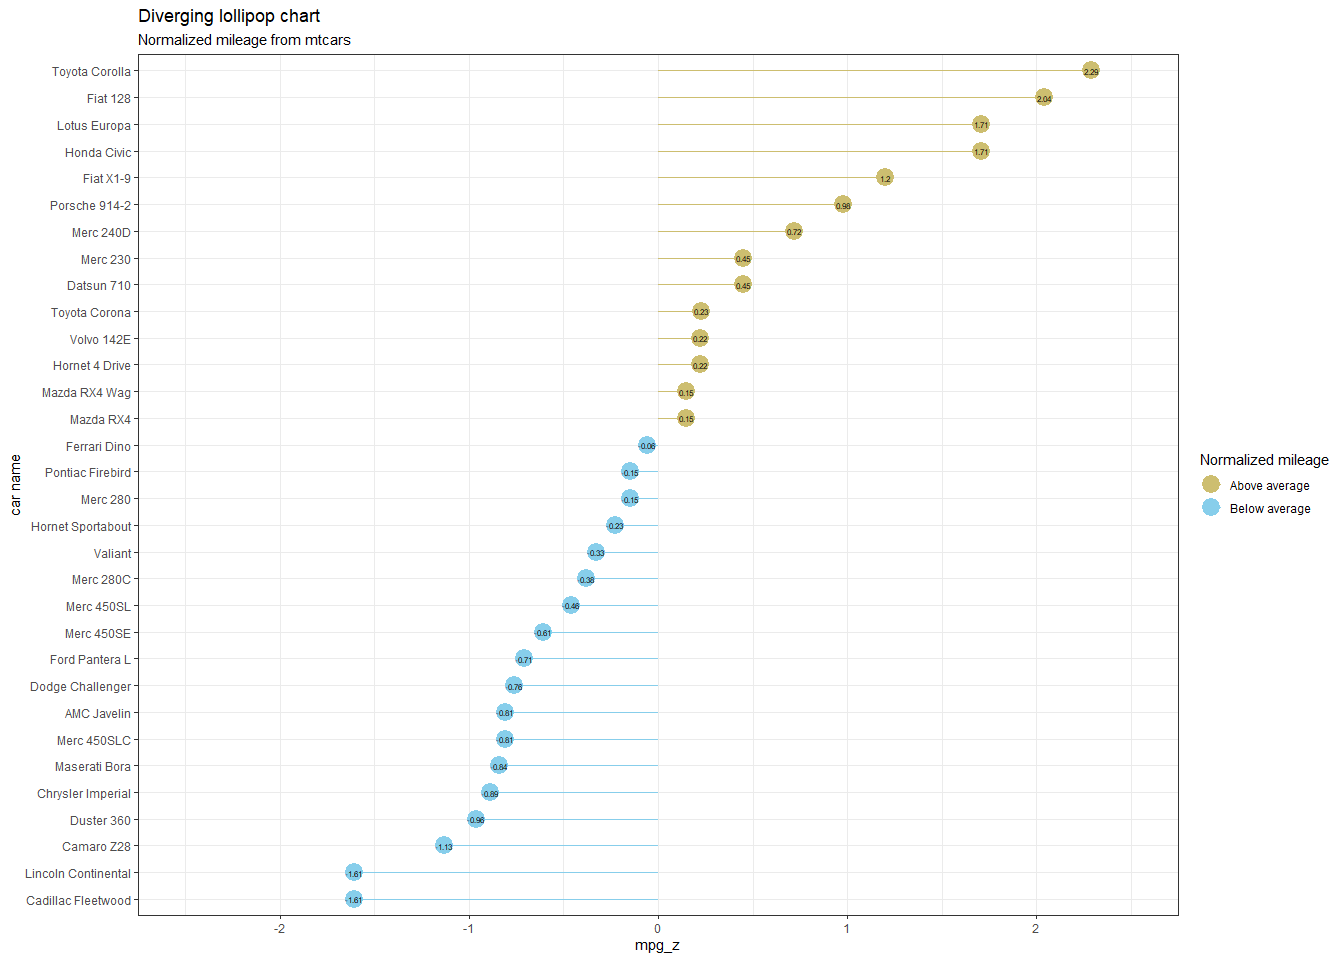
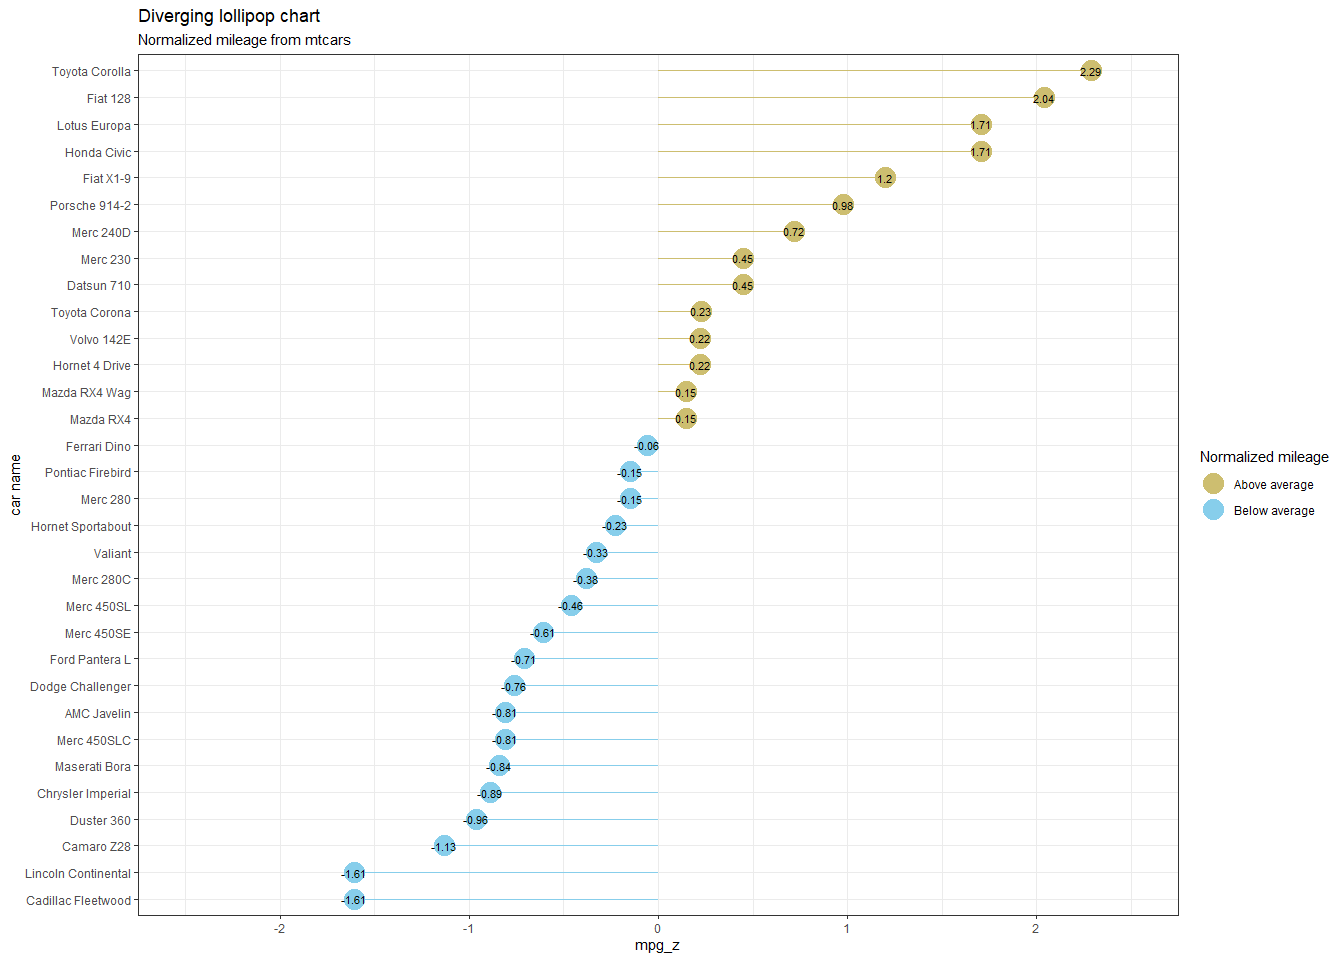
.

diff --git a/_posts/visualization/2022-06-30-diverging-lollipop-chart.md b/_posts/visualization/2022-06-30-diverging-lollipop-chart.md
@@ -8,7 +8,7 @@ tags: [R, ggplot2, 롤리팝차트]
 
 ## 롤리팝 차트 (Diverging lollipop chart)
 
-Diverging lollipop chart는 diverging bar chart와 동일한 정보를 전달하지만 구체적으로 어떤 값을 가지는지 추가로 알 수 있다. `geom_point()`와 `geom_segment()`를 사용하여 시각화할 수 있다.
+Diverging lollipop chart는 [diverging bar chart](https://woojin1223.github.io/%EC%8B%9C%EA%B0%81%ED%99%94/2022/06/29/diverging-bar-chart/)와 동일한 정보를 전달하지만 구체적으로 어떤 값을 가지는지 추가로 알 수 있다. `geom_point()`와 `geom_segment()`를 사용하여 시각화할 수 있다.
 
 ```r
 # load package and data
@@ -24,9 +24,9 @@ mtcars$`car name` <- factor(mtcars$`car name`, levels = mtcars$`car name`) # con
 
 # diverging lollipop chart
 ggplot(mtcars, aes(x = `car name`, y = mpg_z, col = mpg_type)) + 
-  geom_point(size = 6) + 
+  geom_point(size = 7) + 
   geom_segment(aes(x = `car name`, xend = `car name`, y = 0, yend = mpg_z)) +
-  geom_text(aes(label = mpg_z), color = "black", size = 2) +
+  geom_text(aes(label = mpg_z), color = "black", size = 3) +
   scale_color_manual(name = "Normalized mileage", 
                     values = c("above" = "lightgoldenrod3", "below" = "skyblue"),
                     labels = c("Above average", "Below average")) + 
